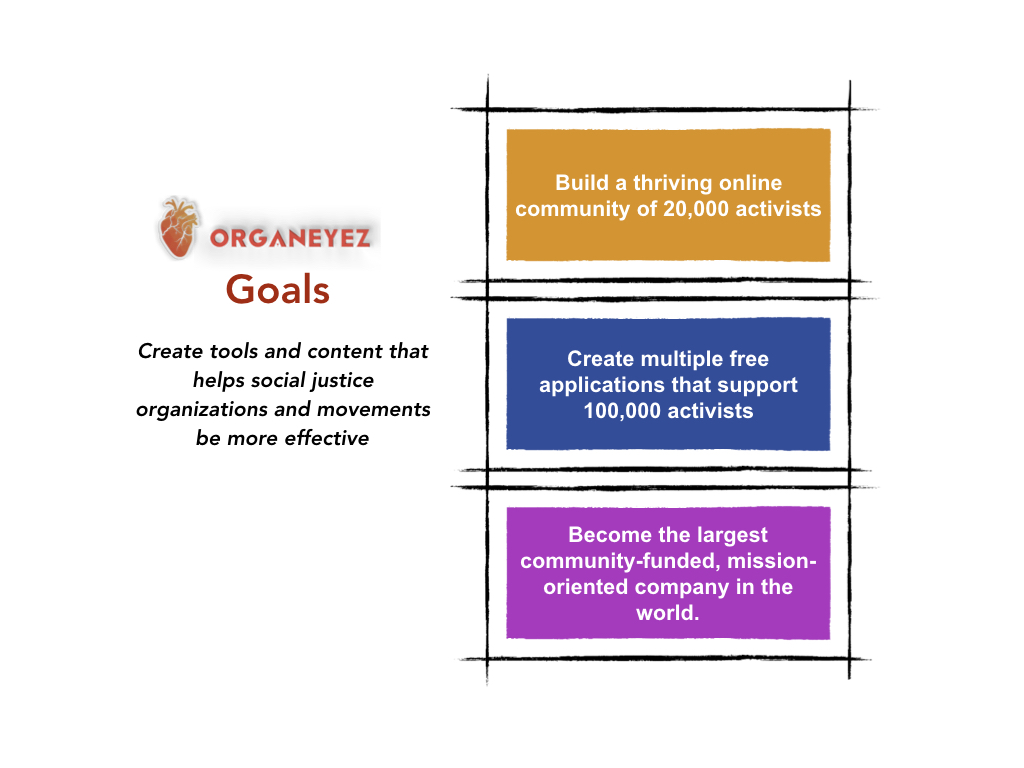
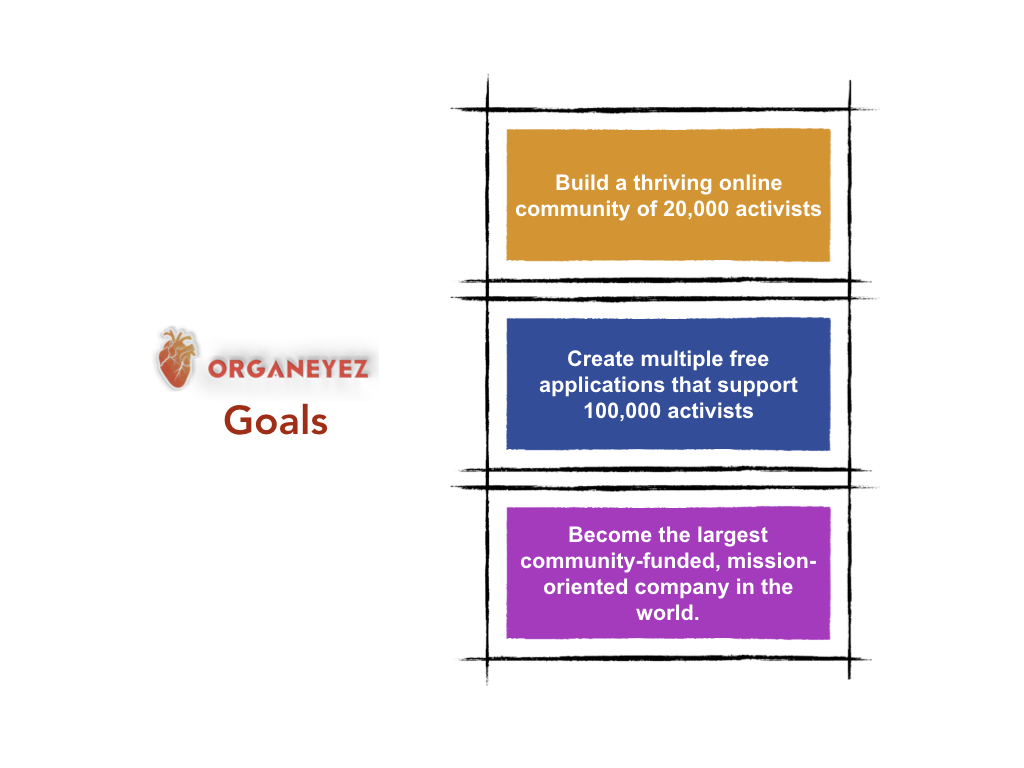
Make omar's changes

Changed region(s): [[0.125, 0.4062, 0.4375, 0.5938], [0.1562, 0.25, 0.375, 0.4062]]

diff --git a/openings.html b/openings.html
@@ -52,22 +52,23 @@
 
 <!-- SUPPORT US-->
   <div id="openings-container">
-    <p id="openings-heading">Open Positions</p>
-    <p class="openings-description">Open positions are listed below. If you are interested in one or more positions please send an email to info@organeyez.co with your contact information, resume, and a brief explanation of why you want to join Organeyez.</p>
-    <p class="openings-description">After you email us, we will contact you to explain more about our process. </p>
-    <p class="openings-description">All workers are expected to work an average of anywhere between 1 and 10 hours a week. Your hours are very flexible and we won't question your time commitment unless you just disappear!</p>
-    <p class="openings-description">We are looking for people with these qualities:</p>
-    <ul class="openings-list">
-      <li>passionate about social justice</li>
-      <li>organized and able to work independently without being micromanaged</li>
-      <li>intrinsically motivated</li>
-      <li>good at communicating ideas, feelings, and thought processes</li>
-      <li>comfortable with giving and receiving both positive and negative feedback</li>
-      <li>A knack for producing excellent work</li>
-      <li>We are a distrbuted team so access to a laptop and ability to participate in remote video-call meetings is crucial</li>
-    </ul>
-    <p class="openings-description"><strong>Open Positions</strong></p>
-    <p class="openings-description"><strong>Engineering</strong></p>
+    <div id="openings-intro">
+      <p id="openings-heading" class="blue-text">Open Positions</p>
+      <p class="openings-description">Open positions are listed below. If you are interested in one or more positions please send an email to info@organeyez.co with your contact information, resume, and a brief explanation of why you want to join Organeyez.</p>
+      <p class="openings-description">After you email us, we will contact you to explain more about our process. </p>
+      <p class="openings-description">All workers are expected to work an average of anywhere between 1 and 10 hours a week. Your hours are very flexible and we won't question your time commitment unless you just disappear!</p>
+      <p class="openings-description">We are looking for people with these qualities:</p>
+      <ul class="openings-list">
+        <li>passionate about social justice</li>
+        <li>organized and able to work independently without being micromanaged</li>
+        <li>intrinsically motivated</li>
+        <li>good at communicating ideas, feelings, and thought processes</li>
+        <li>comfortable with giving and receiving both positive and negative feedback</li>
+        <li>A knack for producing excellent work</li>
+        <li>We are a distrbuted team so access to a laptop and ability to participate in remote video-call meetings is crucial</li>
+      </ul>
+    </div>
+    <p class="openings-description blue-text"><strong>Engineering</strong></p>
     <ul class="openings-list">
       <li>Software Engineer</li>
       <ul>
@@ -77,7 +78,7 @@
         <li>Helps design and create new applications</li>
       </ul>
     </ul>
-    <p class="openings-description"><strong>Media & Communications</strong></p>
+    <p class="openings-description blue-text"><strong>Media & Communications</strong></p>
     <ul class="openings-list">
       <li>Creative Content Coordinator</li>
       <ul>
@@ -90,7 +91,7 @@
         <li>Creates the weekly newsletter and distributes it once a week</li>
       </ul>
     </ul>
-    <p class="openings-description"><strong>Operations</strong></p>
+    <p class="openings-description blue-text"><strong>Operations</strong></p>
     <ul class="openings-list">
       <li>Administrative Assistant</li>
       <ul>
@@ -99,7 +100,7 @@
         <li>Directly assists the Executive Director with many different types of administrative tasks</li>
       </ul>
     </ul>
-    <p class="openings-description"><strong>Community & Partnerships</strong></p>
+    <p class="openings-description blue-text"><strong>Community & Partnerships</strong></p>
     <ul class="openings-list">
       <li>Online Community Moderator</li>
       <ul>
@@ -112,7 +113,7 @@
         <li>This is a very social role that involves attending events and getting involved in local social justice activities</li>
       </ul>
     </ul>
-    <p class="openings-description"><strong>Internships</strong></p>
+    <p class="openings-description blue-text"><strong>Internships</strong></p>
     <p class="openings-description">We invite anyone interested in doing an internship to reach out. We are happy to create a role for you that fits your needs and interests</p>
   </div>
 

diff --git a/css/styles.css b/css/styles.css
@@ -2,7 +2,11 @@ body{
   height: 100%;
   margin: 0;
   display: block;
-} 
+}
+
+.blue-text{
+  color: #000080;
+}
 
 /*LANDING*/
 #landing-container{
@@ -67,7 +71,7 @@ body{
 } 
 
 .active{
-  border: 1px solid black;
+  border: 1px solid #e6e6e6;
   background-color: #e6e6e6;
 }
 
@@ -81,7 +85,6 @@ body{
   margin: 0 auto;
   max-width: 70%;
   padding-top: 10%;
-  padding-bottom: 10%;
   text-align: center;
   display: block;
 }
@@ -98,7 +101,6 @@ body{
 #intended-users{
   padding-right: 6%;
 }
-
 
 .about{
   margin: 100px auto;
@@ -140,11 +142,11 @@ body{
 /*FOOTER*/
 
 .footer{
-  background-color: #595959;
+  background-color: #f2f2f2;
   font-family: 'Merienda', cursive;
   font-weight: bold;
   /*color: #ff3333;*/
-  color: white;
+  color: black;
   font-size: 20px;
   bottom: 0;
   position: scroll;
@@ -187,12 +189,12 @@ body{
 }
 
 .team-member-box{
-  border: 0.5px solid grey;
   margin: 10px;
   padding: 10px 5px;
   width: 300px;
-  box-shadow: -4px -4px #e34840;
-  border-radius: 10px;
+  /*box-shadow: -4px -4px #e34840;*/
+  background-color: #f2f2f2;
+  border-radius: 5px;
 }
 
 .team-member-box p{
@@ -208,14 +210,18 @@ body{
   font-weight: bold;
 }
 
+.name{
+  color: #000080;
+  font-size: 16px !important;
+}
+
 
 /*APPLICATIONS*/
 #yard{
   margin: 0 auto;
-  border: 2px solid grey;
   width: 70%;
-  box-shadow: -8px -8px #e34840;
-  border-radius: 10px;
+  background-color: #f2f2f2;
+  border-radius: 5px;
   padding: 4%;
   text-align: center;
 }
@@ -296,6 +302,11 @@ body{
 
 .openings-list, .openings-description{
   text-align: left;
+}
+
+#openings-intro{
+  background-color: #f2f2f2;
+  padding: 2%;
 }
 
 

diff --git a/community.html b/community.html
@@ -52,7 +52,7 @@
 
 <!-- ABOUT PRODUCTS -->
   <div id="community">
-    <p id="community-heading">Organeyez Online Community</p>
+    <p id="community-heading" class="blue-text">Organeyez Online Community</p>
     <p class="community-description">Join our facebook community <a href="https://www.facebook.com/groups/2086616081622224/" target="_blank">here</a></p>
     <p class="community-description">The Organeyez crew is building an online community of movers and shakers who are really interested in learning about how organizations can radically improve their outcomes. What better way to learn than in community with others who share the same passions and interests? </p>
     <p class="community-description">We have started this online community using a facebook group and hope to see conversations about security, organization, growth, accountability, and much more. This community is a place to share resources, ask questions, get feedback on ideas, share thoughts, and generally just connect with others who really want to impact the world!</p>

diff --git a/support.html b/support.html
@@ -52,7 +52,7 @@
 
 <!-- SUPPORT US-->
   <div id="support-container">
-    <p id="support-heading">How Can You Support?</p>
+    <p id="support-heading" class="blue-text">How Can You Support?</p>
     <h3>Financial</h3>
     <p class="support-description">Though we are an LLC, we provide all of our services free of charge and intend to keep things this way. We believe that useful technology, resources, and information should be accessible to community organizations who are positively impacting the world.</p>
     <p class="support-description">Nonetheless, we still have costs. We are looking to becoming a community funded company that is able to cover its expenses and compensation costs purely from monthly supporter payments made to our Patreon account. We believe that by sending monthly payments to Organeyez of $5/month or more, we can become the largest community funded mission-oriented corporation in the world.</p>

diff --git a/technologies.html b/technologies.html
@@ -52,7 +52,7 @@
 
 <!-- ABOUT PRODUCTS -->
   <div id="yard">
-    <p id="yard-heading">Your Activist Resource Directory</p>
+    <p id="yard-heading" class="blue-text">Your Activist Resource Directory</p>
     <p id="yard-description">YARD is an activist platform for creating and sharing libraries of free online resources. YARD aims to help activists share the work of finding and collecting research papers, public policy reports, documentaries, news articles, and other crucial educational information. By organizing it all in one central location that is easy to access, we reduce repetitive work and make it easier for each organization to educate its members, supporters, and general community.</p>
     <p class="visit">Visit YARD <a href="http://www.youractivistresourcedirectory.com/" target="_blank">here</a></p>
   </div>

diff --git a/podcast.html b/podcast.html
@@ -52,7 +52,7 @@
 
 <!-- ABOUT THE PODCAST -->
   <div id="podcast">
-    <p id="podcast-heading">Organeyez Podcast</p>
+    <p id="podcast-heading" class="blue-text">Organeyez Podcast</p>
     <p class="visit">Follow our podcast blog <a href="https://organeyezpodcast.wordpress.com/" target="_blank">here</a></p>
     <p class="podcast-description">The goal of our podcast is to seek out activists who have found valuable strategies for improving the growth and development of their organizations or the movements they support.</p>
     <p class="podcast-description">We've identified 4 different types of activists and aim to engage those who have</p>

diff --git a/index.html b/index.html
@@ -58,7 +58,6 @@
 
   <!-- ABOUT -->
     <div class="about">
-      <h2>Goals</h2>
       <img src="images/goals-2.jpeg" id="org-goals-img">
     </div>
     <div class="about">
